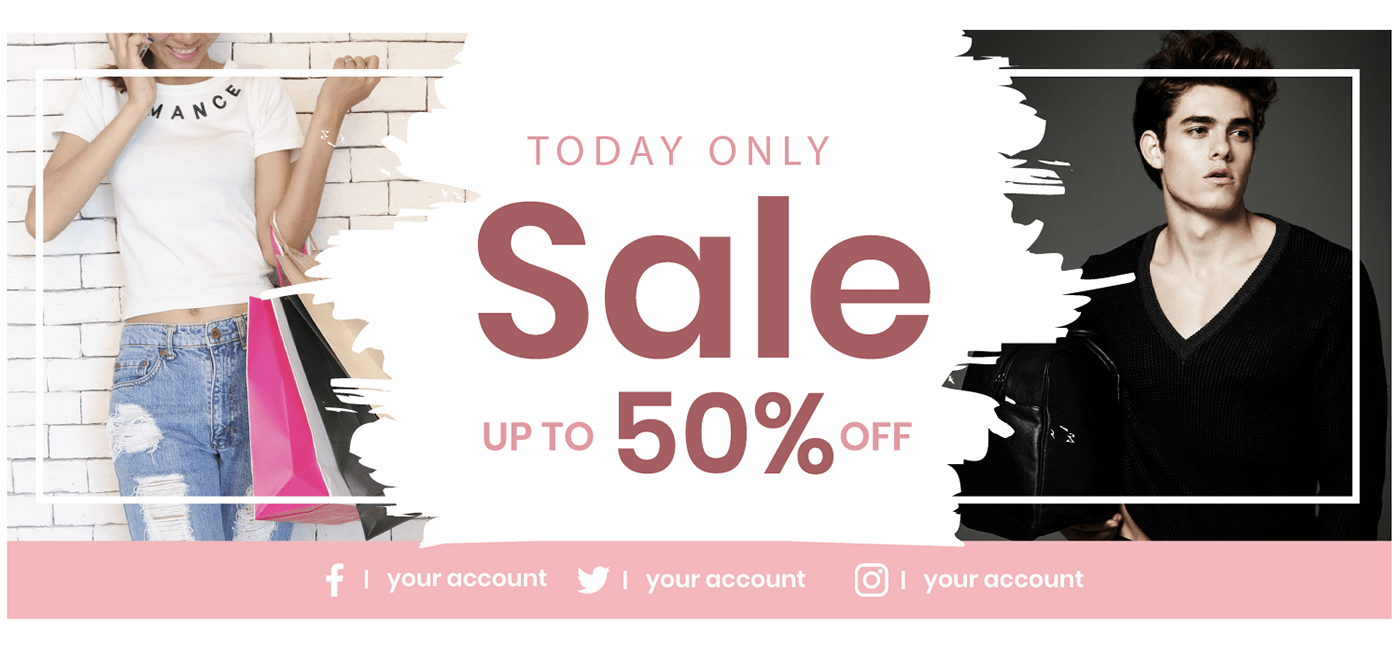
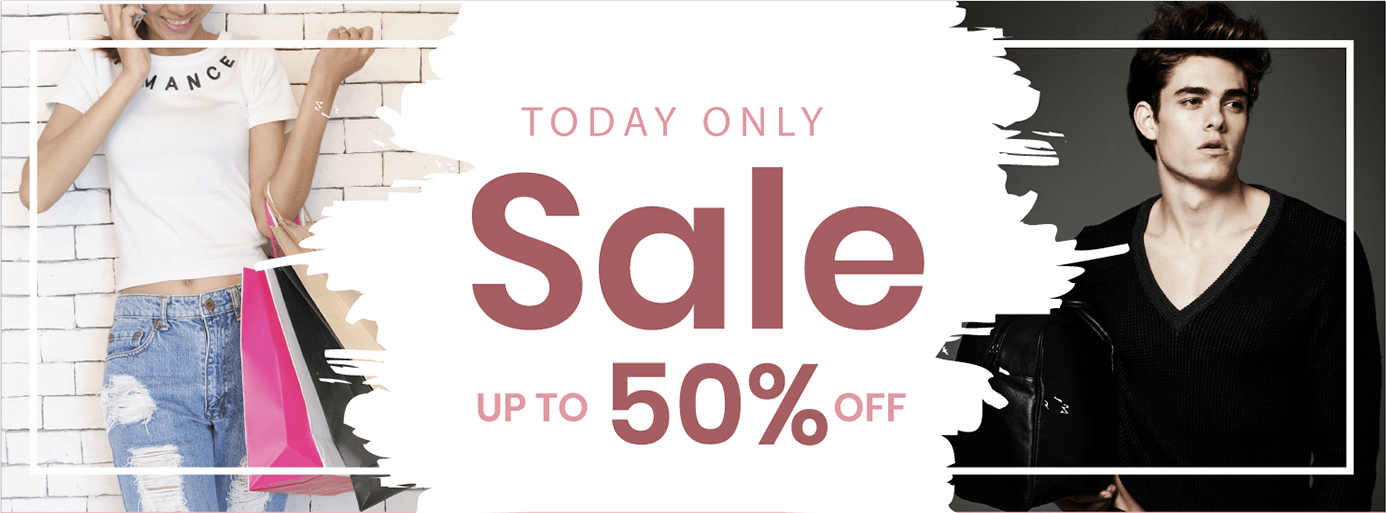
xc

diff --git a/Đồ án TKCSDL/code FE/index.html b/Đồ án TKCSDL/code FE/index.html
@@ -54,10 +54,10 @@
                     </div>
                     <div class="banner-login__form">
                         <div class="banner-login__register">
-                            Đăng Kí
+                            Sign up
                         </div>
                         <div class="banner-login__login">
-                            Đăng Nhập
+                            Sign in
                         </div>
                     </div>
                 </div>
@@ -68,14 +68,14 @@
         <!-- BEGIN  -->
         <div class="container-list">
             <ul class="container-list__menu">
-                <li class="container-list__item">THỜI TRANG</li>
-                <li class="container-list__item">ĐIỆN TỬ</li>
-                <li class="container-list__item">GIA DỤNG</li>
-                <li class="container-list__item">THỂ THAO & DU LỊCH</li>
-                <li class="container-list__item">GIÀY DÉP</li>
-                <li class="container-list__item">MỸ PHẨM</li>
-                <li class="container-list__item">TRANG SỨC</li>
-                <li class="container-list__item">SÁCH</li>
+                <li class="container-list__item">ELECTRONICS</li>
+                <li class="container-list__item">FASHION</li>
+                <li class="container-list__item">SMART HOME</li>
+                <li class="container-list__item">HEAL AND BEAUTY</li>
+                <li class="container-list__item">SHOES</li>
+                <li class="container-list__item">JEWELRYS AND WATCHS</li>
+                <li class="container-list__item">SPORTS</li>
+                <li class="container-list__item">BOOK</li>
             </ul>
         </div>
     </header>
@@ -165,13 +165,13 @@
                 <div class="footer__information">
                     <div class="footer__information-frame">
                         <i class="fas fa-globe footer__information-font"></i>
-                        <p class="footer__information-font">Tiếng Việt</p>    
+                        <p class="footer__information-font">English</p>    
                     </div>
                     <div class="footer__information-frame">
-                        <p class="footer__information-font">VND</p>
+                        <p class="footer__information-font">$ VND</p>
                     </div>
                     <div class="footer__information-frame">
-                        <img class="footer__information-img" src="./asset/img/cờ.jpg" alt="">
+                        <img class="footer__information-img" src="./asset/img/cờ.jpg" alt="">
                         <p class="footer__information-font">VietNam</p>
                     </div>
                 </div>

diff --git a/Đồ án TKCSDL/code FE/asset/main.css b/Đồ án TKCSDL/code FE/asset/main.css
@@ -218,7 +218,7 @@
     display: block;
 }
 .container-banner__banner {
-    padding-top: 47%;
+    padding-top: 42%;
     background-repeat: no-repeat;
     background-size: contain;
     background-position: center;
